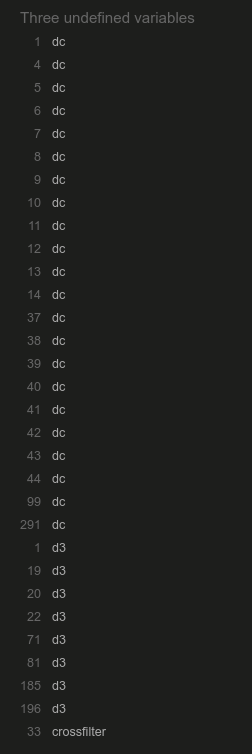
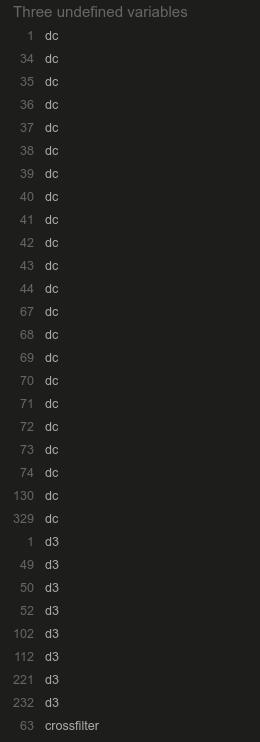
Update validator screenshots in README.md

Changed region(s): [[0.0556, 0.0, 0.7778, 0.9919]]

diff --git a/README.md b/README.md
@@ -277,7 +277,7 @@ The fonts, colors, and charts' color scheme were chosen to provide better readab
     
     ![Jigsaw CSS validator results](assets/documentation/jigsaw-css.png)
     
-    + However, seven warnings were returned, which have no impact on page display:
+    + However, fourteen warnings were returned, which have no impact on page display:
     
     ![CSS warnings](assets/documentation/css-warnings.png)
 
